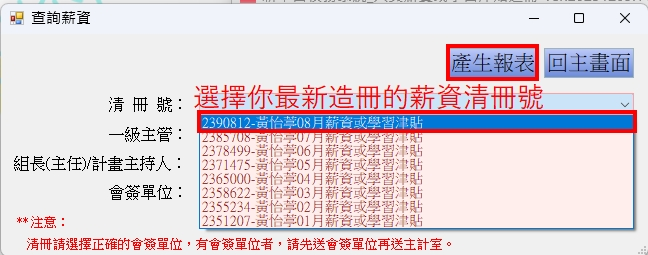
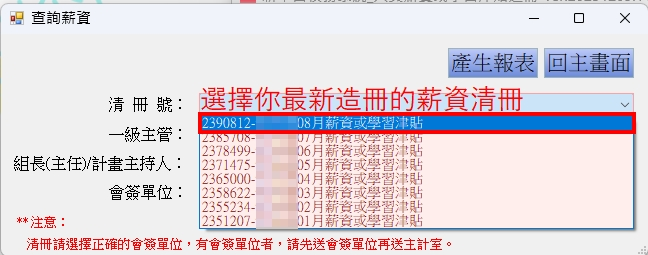
統一全站字體層級並更新薪資清冊步驟九圖片

Changed region(s): [[0.2778, 0.1647, 0.9877, 0.9059]]

diff --git a/app/globals.css b/app/globals.css
@@ -11,6 +11,14 @@
   --background: #e9e5dc;
   --font-body: "Yu Gothic", "YuGothic", "Hiragino Kaku Gothic ProN", "Hiragino Sans", "Microsoft JhengHei", "Noto Sans TC", sans-serif;
   --font-book: "Yu Mincho", "YuMincho", "Hiragino Mincho ProN", "Hiragino Mincho Pro", "Noto Serif TC", "Songti TC", serif;
+  --font-ui: var(--font-body);
+  --type-chapter-title: clamp(2.8rem, 6vw, 5.4rem);
+  --type-section-title: 1.75rem;
+  --type-subtitle: 1.16rem;
+  --type-body: .9rem;
+  --type-note: .84rem;
+  --type-meta: .76rem;
+  --type-label: .7rem;
   color-scheme: light;
 }
 
@@ -253,9 +261,116 @@ button { color: inherit; }
 .salary-section-note strong { display: block; color: var(--navy); font-size: .68rem; letter-spacing: .1em; }
 .salary-section-note.rose { border-left-color: #a94f49; color: #704846; background: #faece9; }
 .salary-section-note.rose strong { color: #913f39; }
+
+/* 全站字體層級：相同內容角色在每個篇章使用同一套字型與字級。 */
+.chapter-heading h1,
+.placeholder-page h1 {
+  font-family: var(--font-book);
+  font-size: var(--type-chapter-title);
+  font-weight: 700;
+  line-height: 1;
+}
+
+.section-title h2,
+.salary-overview-heading h2 {
+  font-family: var(--font-book);
+  font-size: var(--type-section-title);
+  font-weight: 700;
+  line-height: 1.25;
+}
+
+.system-guide-copy h3,
+.system-guide li b,
+.salary-step-copy h3 {
+  font-family: var(--font-book);
+  font-size: var(--type-subtitle);
+  font-weight: 700;
+  line-height: 1.4;
+}
+
+.section-intro,
+.insurance-summary p,
+.system-route,
+.system-guide li span,
+.document-note,
+.conditional-note,
+.download-placeholder p,
+.safety-resources p,
+.screenshot-card figcaption,
+.example-card figcaption p,
+.salary-date-notice p,
+.salary-submit-notice p,
+.salary-step-description,
+.salary-inline-note,
+.salary-section-note {
+  font-family: var(--font-body);
+  font-size: var(--type-body);
+  font-weight: 500;
+}
+
+.document-card-body > strong,
+.document-info strong,
+.safety-resources strong,
+.salary-check-card label strong,
+.submission-location strong {
+  font-family: var(--font-body);
+  font-size: 1rem;
+  font-weight: 700;
+}
+
+.notice,
+.document-card-body > small,
+.document-check,
+.document-info small,
+.system-plan-values dt,
+.system-plan-values dd,
+.annual-code-note,
+.salary-check-card > a,
+.salary-inline-action,
+.lightbox-controls {
+  font-family: var(--font-body);
+  font-size: var(--type-note);
+}
+
+.section-title p,
+.salary-overview-heading p,
+.system-guide-kicker,
+.salary-date-notice strong,
+.salary-submit-notice strong,
+.salary-inline-note strong,
+.salary-section-note strong,
+.submission-location small,
+.system-plan-values dd small,
+.example-label {
+  font-family: var(--font-body);
+  font-size: var(--type-meta);
+  font-weight: 800;
+}
+
+.notice > span,
+.system-badge,
+.system-step-image > span,
+.system-guide-image span,
+.document-thumb > span:not(.missing-icon),
+.screenshot-card button span,
+.salary-card-preview span,
+.salary-step-image span {
+  font-family: var(--font-body);
+  font-size: var(--type-label);
+  font-weight: 800;
+}
+
+.document-action,
+.document-download,
+.safety-resource-actions a,
+.system-link {
+  font-family: var(--font-body);
+  font-size: var(--type-note);
+}
+
 .page-footer { margin-top: 56px; padding-top: 16px; border-top: 1px solid var(--line); display: flex; justify-content: space-between; color: #918a7d; font-size: .66rem; letter-spacing: .05em; }
 .placeholder-page { position: relative; display: flex; flex-direction: column; justify-content: center; align-items: flex-start; padding-left: 16%; }
-.placeholder-page h1 { font-size: clamp(3.4rem, 7vw, 6rem); }
+.placeholder-page h1 { font-size: var(--type-chapter-title); }
 .placeholder-rule { width: 75px; height: 4px; background: var(--gold); margin: 30px 0; }
 .placeholder-page > p:not(.eyebrow):not(.page-number) { color: #758087; }
 .placeholder-stamp { margin-top: 48px; padding: 13px 20px; border: 2px solid #9d887a; color: #9d887a; transform: rotate(-5deg); font-weight: 800; letter-spacing: .18em; opacity: .66; }
@@ -302,7 +417,7 @@ button { color: inherit; }
   .section-nav { overflow-x: auto; padding: 14px 0; }
   .section-nav a { white-space: nowrap; }
   .section-title > span { width: 36px; height: 36px; }
-  .section-title h2 { font-size: 1.45rem; }
+  .section-title h2, .salary-overview-heading h2 { font-size: 1.45rem; }
   .identity-card { padding: 17px; }
   .system-guide { padding: 18px; }
   .document-card { grid-template-columns: 102px minmax(0, 1fr); }
